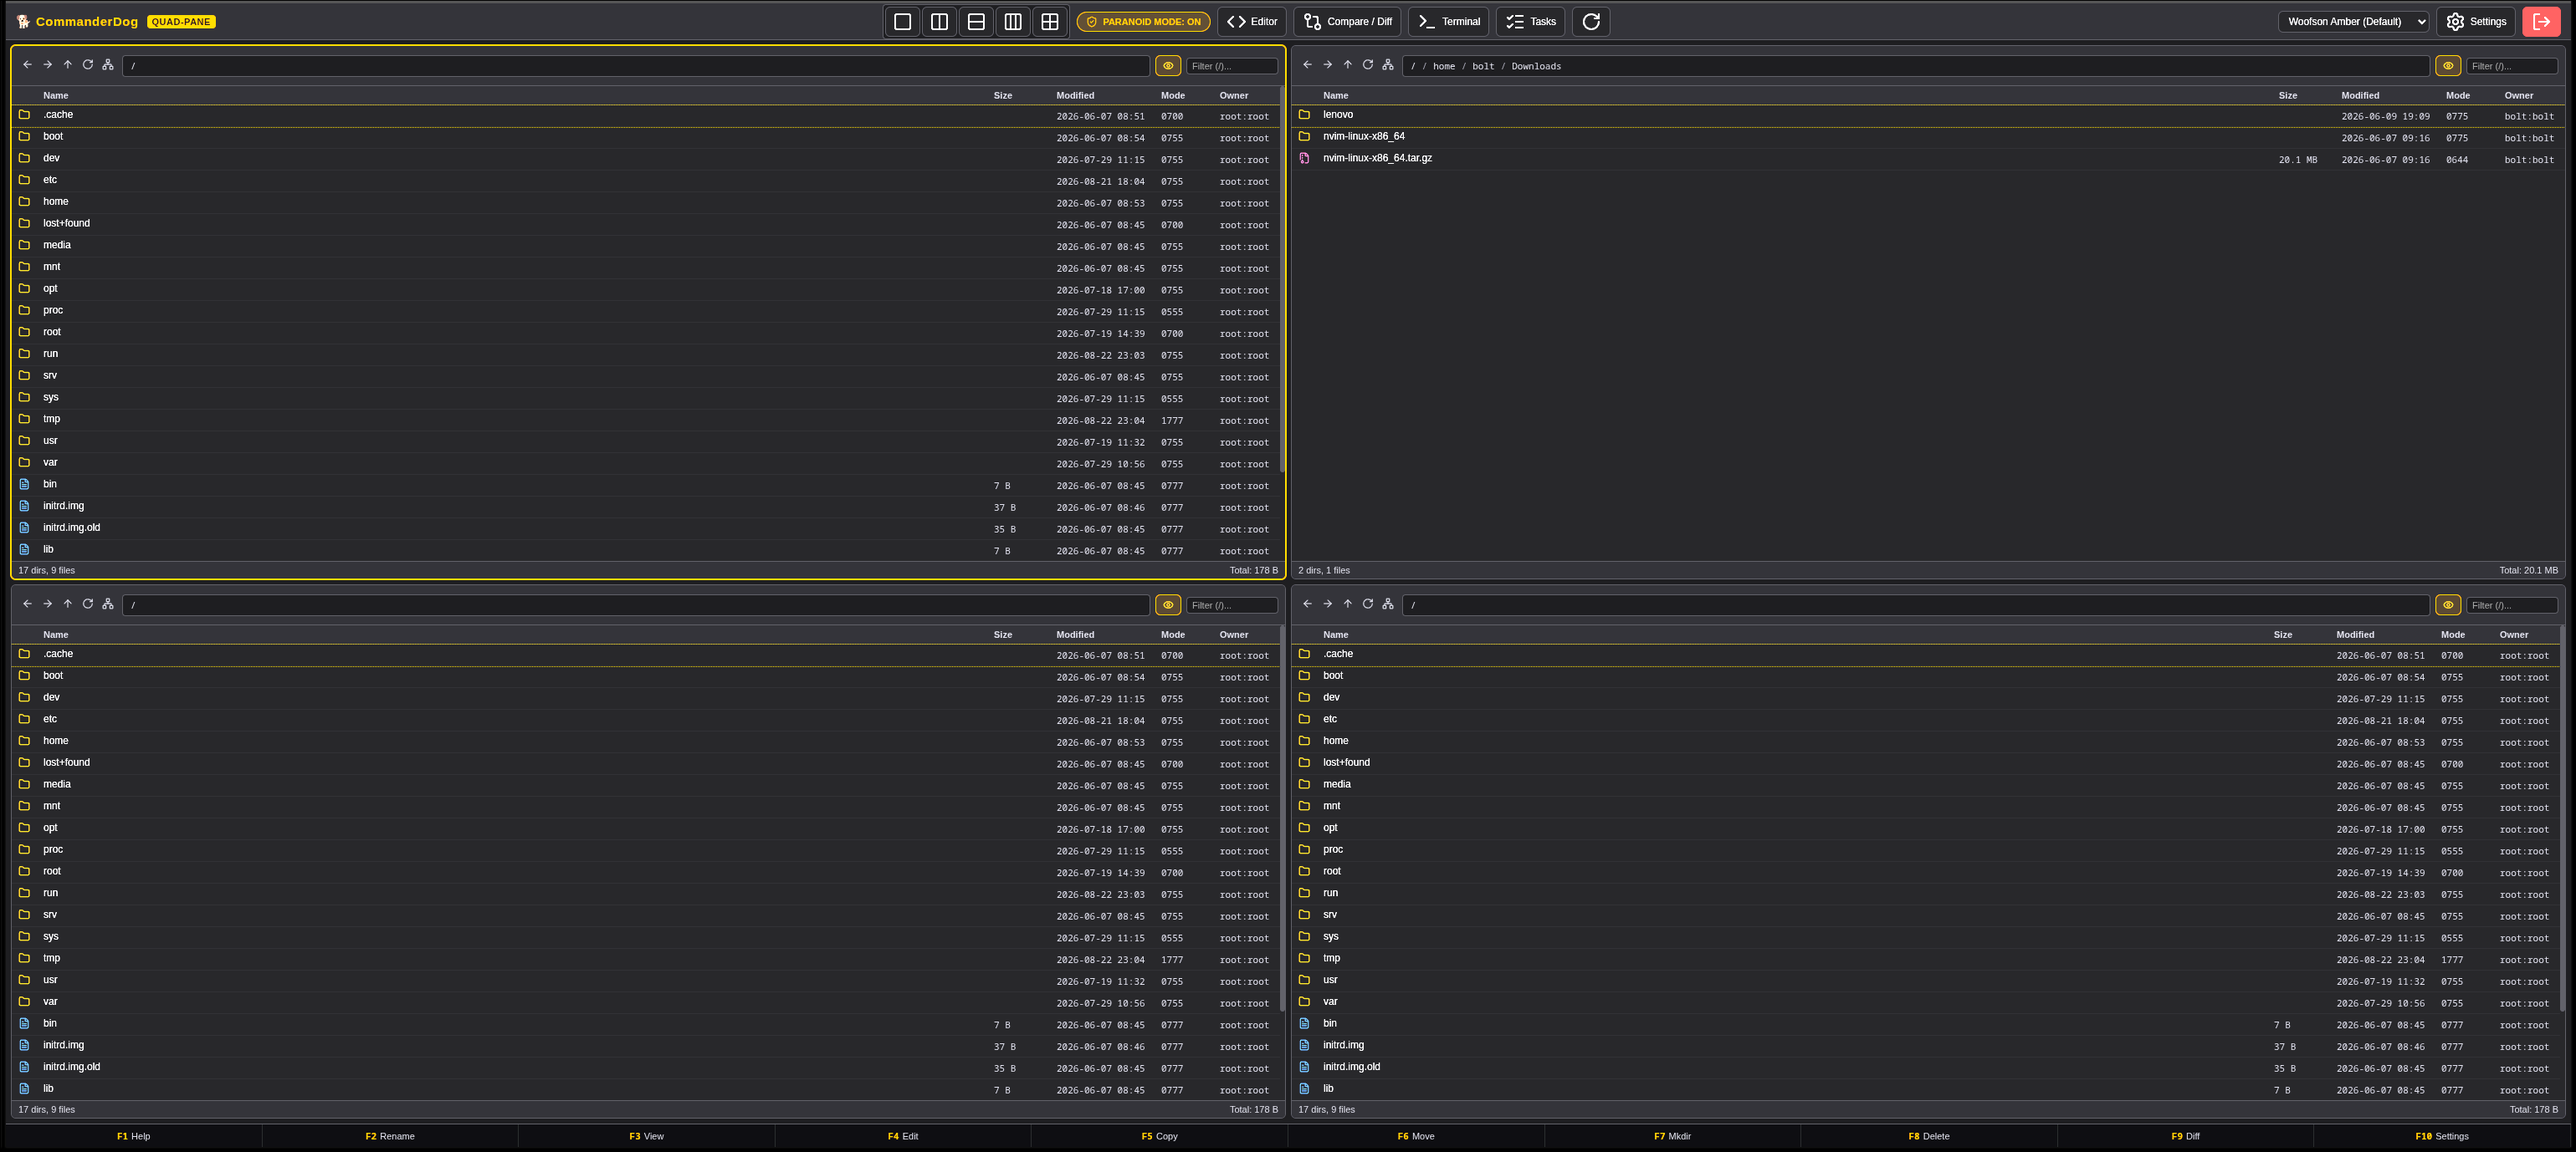
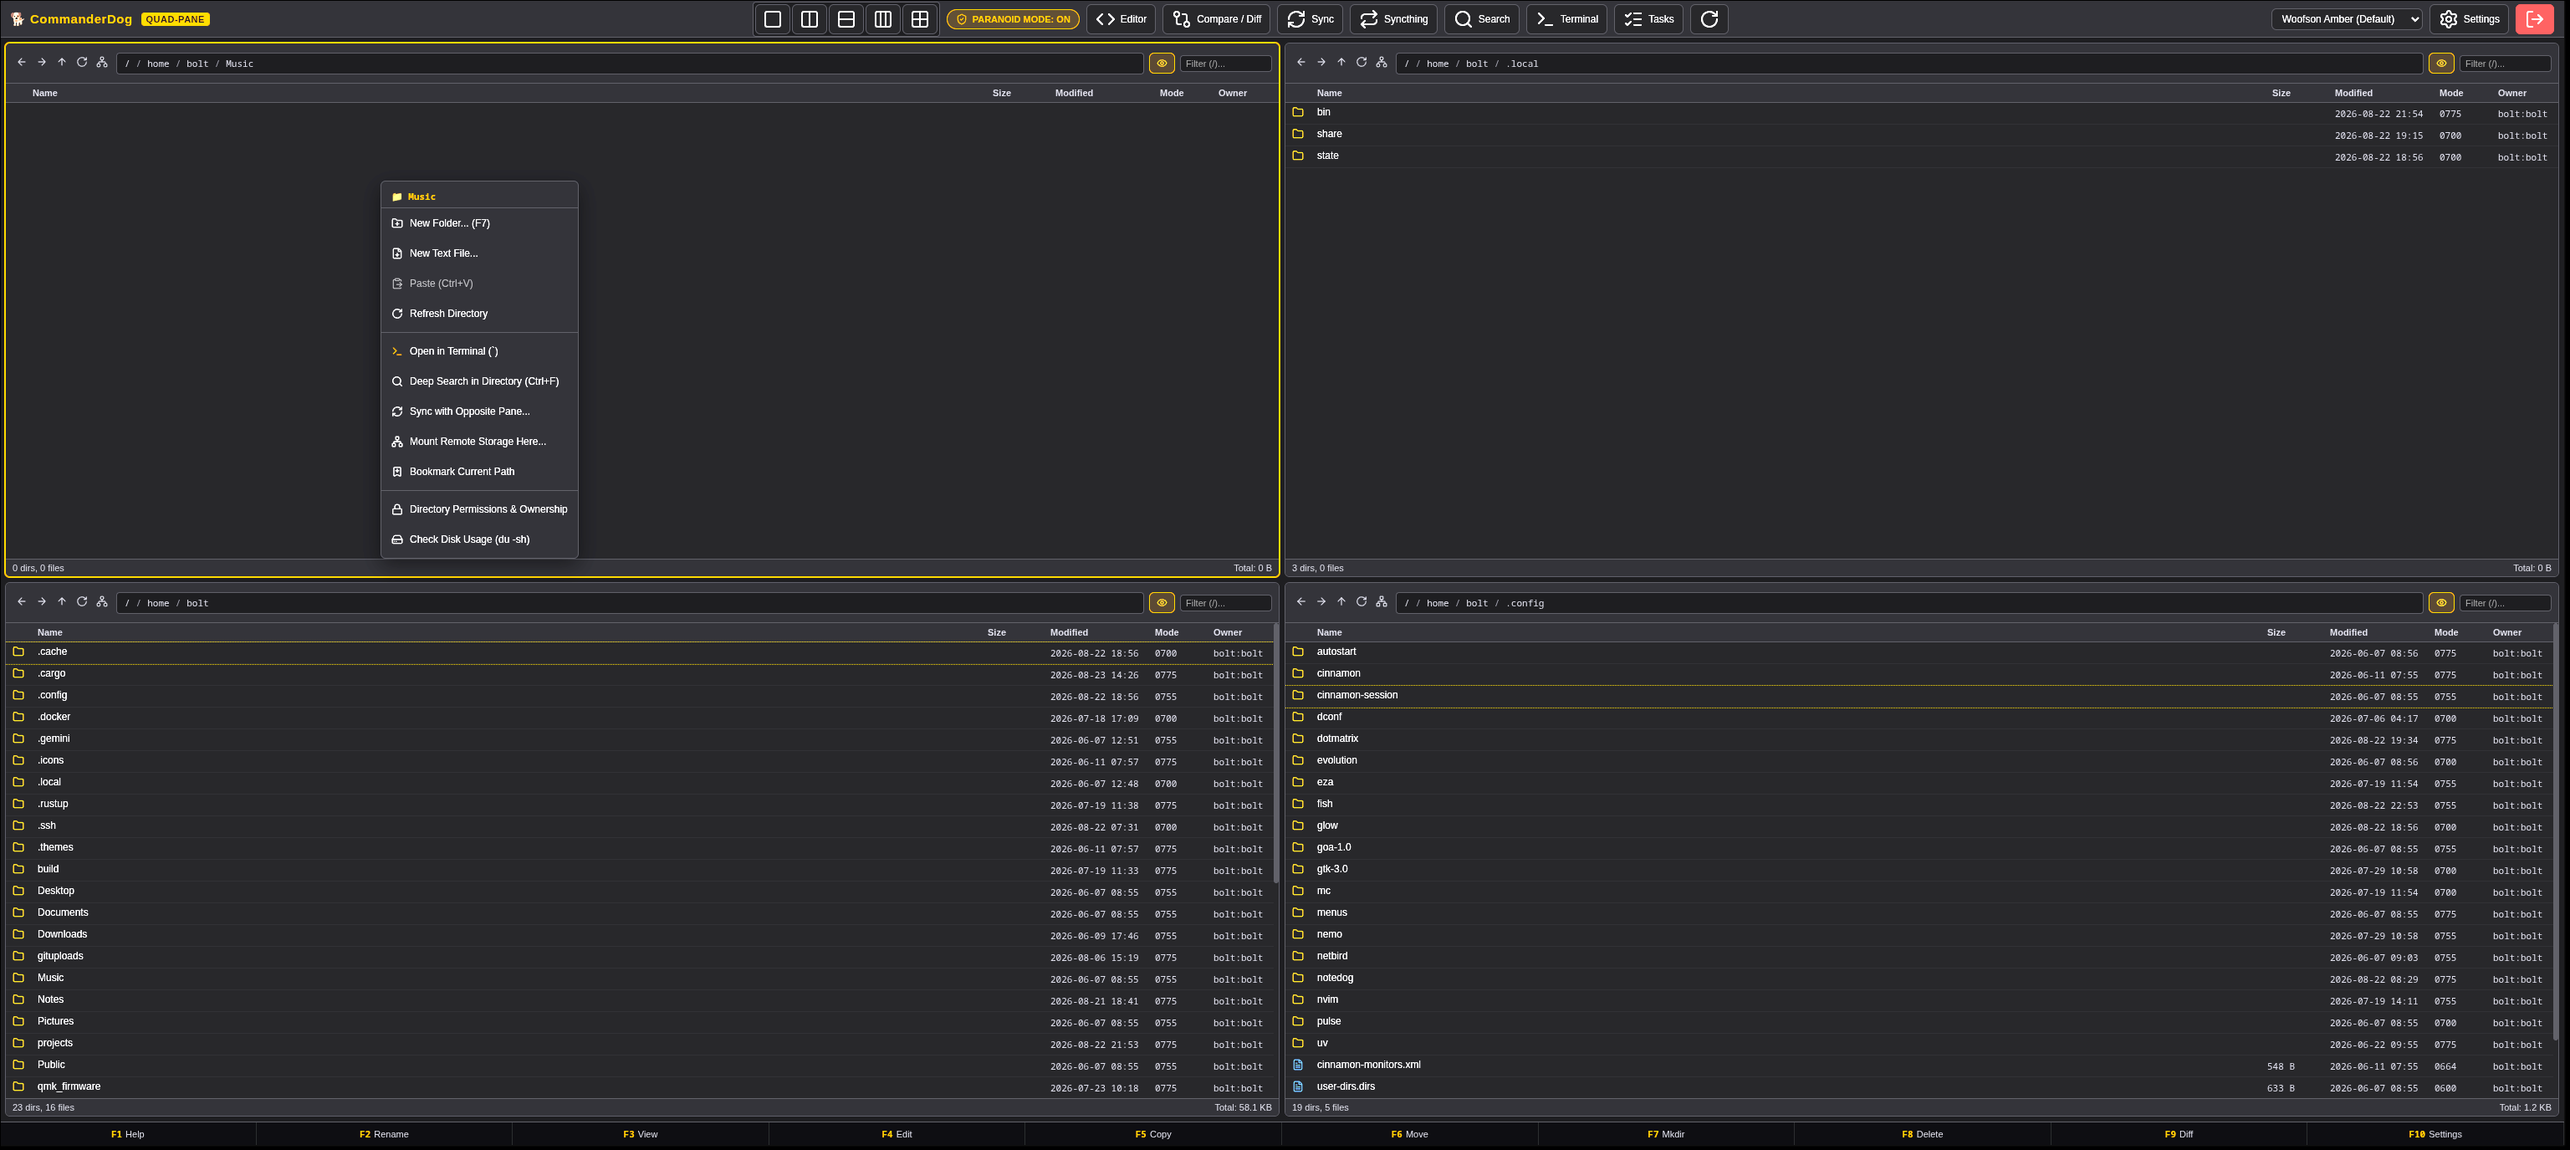
docs: update README screenshot to assets/commanderdogq.png and update feature documentation

diff --git a/README.md b/README.md
@@ -1,7 +1,7 @@
 # 🐕 CommanderDog
 
 <div align="center">
-  <img src="assets/commanderdog.png" alt="CommanderDog Banner" width="800" style="border-radius: 8px; box-shadow: 0 12px 32px rgba(0,0,0,0.6);" />
+  <img src="assets/commanderdogq.png" alt="CommanderDog Quad-Pane Banner" width="800" style="border-radius: 8px; box-shadow: 0 12px 32px rgba(0,0,0,0.6);" />
   <p><em>Quad-Pane High-Performance Web File Commander | Orthodox Power with Modern Polish</em></p>
 </div>
 
@@ -10,8 +10,11 @@
 ## ✨ Features
 
 - 🗂 **Dynamic 1-to-4 Toggleable Panes**: Switch seamlessly between Single, Dual-Vertical, Dual-Horizontal, Triple, and 2x2 Quad layouts (`Alt+1`–`4`).
-- ⚡ **Orthodox Commander Keybindings**: Full keyboard control (`Tab` switch pane, `F1` Help, `F2` Rename, `F3` Quick View, `F4` Dual-Pane Editor, `F5` Copy, `F6` Move, `F7` Mkdir, `F8` Delete/Trash, `Ctrl+D` Diff, `Insert`/`Space` multi-select, `Shift+F6` Bulk Rename).
-- 🖱 **Drag & Drop Engine**: Drag and drop effortlessly between any pane or from your host OS desktop to upload.
+- ⚡ **Orthodox Commander Keybindings**: Full keyboard control (`Tab` switch pane, `F1` Help, `F2` Rename, `F3` Quick View, `F4` Dual-Pane Editor, `F5` Copy, `F6` Move, `F7` Mkdir, `F8` Delete/Trash, `Ctrl+D` Diff, `Insert`/`Space` multi-select, `Shift+F6` Bulk Rename, `Ctrl+C`/`X`/`V` Clipboard).
+- 🖱 **Enhanced Mouse & Touch Controls**:
+  - **Double-Click Empty Space Navigation**: Double-click anywhere on empty panel space to jump up one directory level (toggleable in Settings).
+  - **Empty-Space Context Menu**: Right-click blank space to create new files/folders, paste clipboard items, open terminal, or analyze disk usage.
+  - **Mobile Touch Engine**: 450ms haptic long-press for context menu and horizontal swipe gestures to switch active panels on mobile.
 - ⚡ **DeltaCopy / RoboCopy / TeraCopy Engine**:
   - **Delta Skip**: Automatically skips identical unchanged files (size & modification timestamp match) for high-speed incremental transfers.
   - **TeraCopy Checksum**: Optional bit-for-bit CRC32 / SHA-256 integrity verification post-transfer.
@@ -34,11 +37,15 @@
 - 💻 **Slide-Up Native Web Terminal (PTY)**:
   - Toggle with `Ctrl+\`` or the `Terminal` button.
   - Native Linux pseudo-terminal running `bash`/`sh` over WebSockets, starting in the active pane's current directory.
-- 🌐 **Protocols & Remote Connection Manager**:
-  - Local Linux filesystem
-  - SSH / SFTP remote servers (host, port, username, password/SSH key)
-  - WebDAV remote storage (Nextcloud, ownCloud, Synology, Apache/Nginx)
-  - Virtual archive browsing (open `.zip`, `.tar.gz`, `.tar.bz2`, `.tar.xz`, `.7z` directly as virtual directories).
+- 🌐 **Protocols & Cloud Object Storage Manager**:
+  - **Local Linux Filesystem**
+  - **SFTP / SSH** remote servers (Port 22 / 23)
+  - **📦 Hetzner Storage Box**: Dedicated fast preset (SFTP port 23 & WebDAV HTTPS)
+  - **WebDAV**: Nextcloud, ownCloud, Synology, Apache/Nginx
+  - **☁ S3 Cloud Object Storage**: AWS S3, MinIO, Cloudflare R2, Backblaze B2, Hetzner S3 (SigV4 signing)
+  - **🛡 Proton Drive**: End-to-end encrypted (E2EE) storage via Proton CLI & FUSE bridges
+  - **🔄 Syncthing**: Live background sync dashboard, peer throughput, in-sync progress, and scan triggers
+  - **Virtual Archives**: Open `.zip`, `.tar.gz`, `.tar.bz2`, `.tar.xz`, `.7z` directly as virtual directories.
 - 🔒 **Visual Unix Permissions & Ownership Manager**:
   - 3x3 interactive `chmod` matrix (Read, Write, Execute for Owner, Group, Others) with live octal calculation.
   - 1-Click presets (`0644`, `0755`, `0600`, `0700`, `0777`).
@@ -68,8 +75,8 @@
   - **💻 Midnight Commander Blue**
 - ⚙ **conf.d Configuration Architecture**:
   - Scans and merges snippets hierarchically from `/etc/commanderdog/conf.d/*.toml`, `~/.config/commanderdog/conf.d/*.toml`, and `./conf.d/*.toml`.
-- 👥 **Multi-User Auth**: Native Linux PAM system users + Built-in SQLite user database with Argon2 password hashing.
-- 🐳 **Docker & LXC Ready**: Standalone single binary with embedded web frontend and minimal container images.
+- 👥 **Multi-User Auth**: Native Linux PAM system users (`/etc/shadow`, sudoer admin resolution) + Built-in SQLite user database with Argon2 password hashing.
+- 🐳 **Docker, Proxmox & LXC Ready**: Standalone single binary with embedded web frontend, Debian `.deb` packages, and full Proxmox deployment guide (`LXC.md`).
 
 ---
 
@@ -88,7 +95,17 @@ cargo build --release
 Open your browser at **http://localhost:8080**  
 Default credentials:
 - **Username**: `admin`
-- **Password**: `commanderdog`
+- **Password**: `commanderdog`  
+*(Or log in directly with any Linux system account on the host!)*
+
+---
+
+## 📦 Native Packages & LXC Deployment
+
+- **Debian / Ubuntu**: Install pre-built `dist/commanderdog_0.1.0_amd64.deb` (`sudo dpkg -i commanderdog_*.deb`).
+- **Arch Linux**: `packaging/PKGBUILD` included for `makepkg -si`.
+- **Alpine Linux**: `packaging/APKBUILD` included.
+- **Proxmox VE / Linux LXC**: See the complete [LXC.md](file:///home/bolt/projects/commanderdog/LXC.md) guide or run `scripts/lxc-install.sh`.
 
 ---
 
@@ -109,7 +126,8 @@ conf.d/
 ├── 00-server.toml      # Host, port, upload limits, roots
 ├── 10-auth.toml        # Authentication modes (mixed/builtin/pam)
 ├── 20-themes.toml      # Theme palettes and default appearance
-└── 30-actions.toml     # Paranoid settings & context menu script actions
+├── 30-actions.toml     # Paranoid settings & context menu script actions
+└── 40-syncthing.toml   # Syncthing continuous synchronization engine
 ```
 
 ---
@@ -129,7 +147,8 @@ conf.d/
 | **`F7`** | Create New Folder |
 | **`F8` / `Delete`** | Delete / Move to Trash |
 | **`F9` / `Ctrl+D`** | Folder & File Comparison (Diff) |
-| **`F10`** | Settings Hub (General, Paranoid, Palette, Bookmarks, conf.d) |
+| **`F10`** | Settings Hub (General, Paranoid, Palette, Bookmarks, Syncthing, conf.d) |
+| **`Ctrl+C` / `Ctrl+X` / `Ctrl+V`** | Copy, Cut, and Paste files across panels |
 | **`Ctrl+\``** | Toggle Slide-Up Native Web Terminal (PTY) |
 | **`Alt+1` .. `Alt+4`** | Jump to Pane 1, 2, 3, or 4 |
 | **`Insert` / `Space`** | Toggle Item Selection & Step Down |
